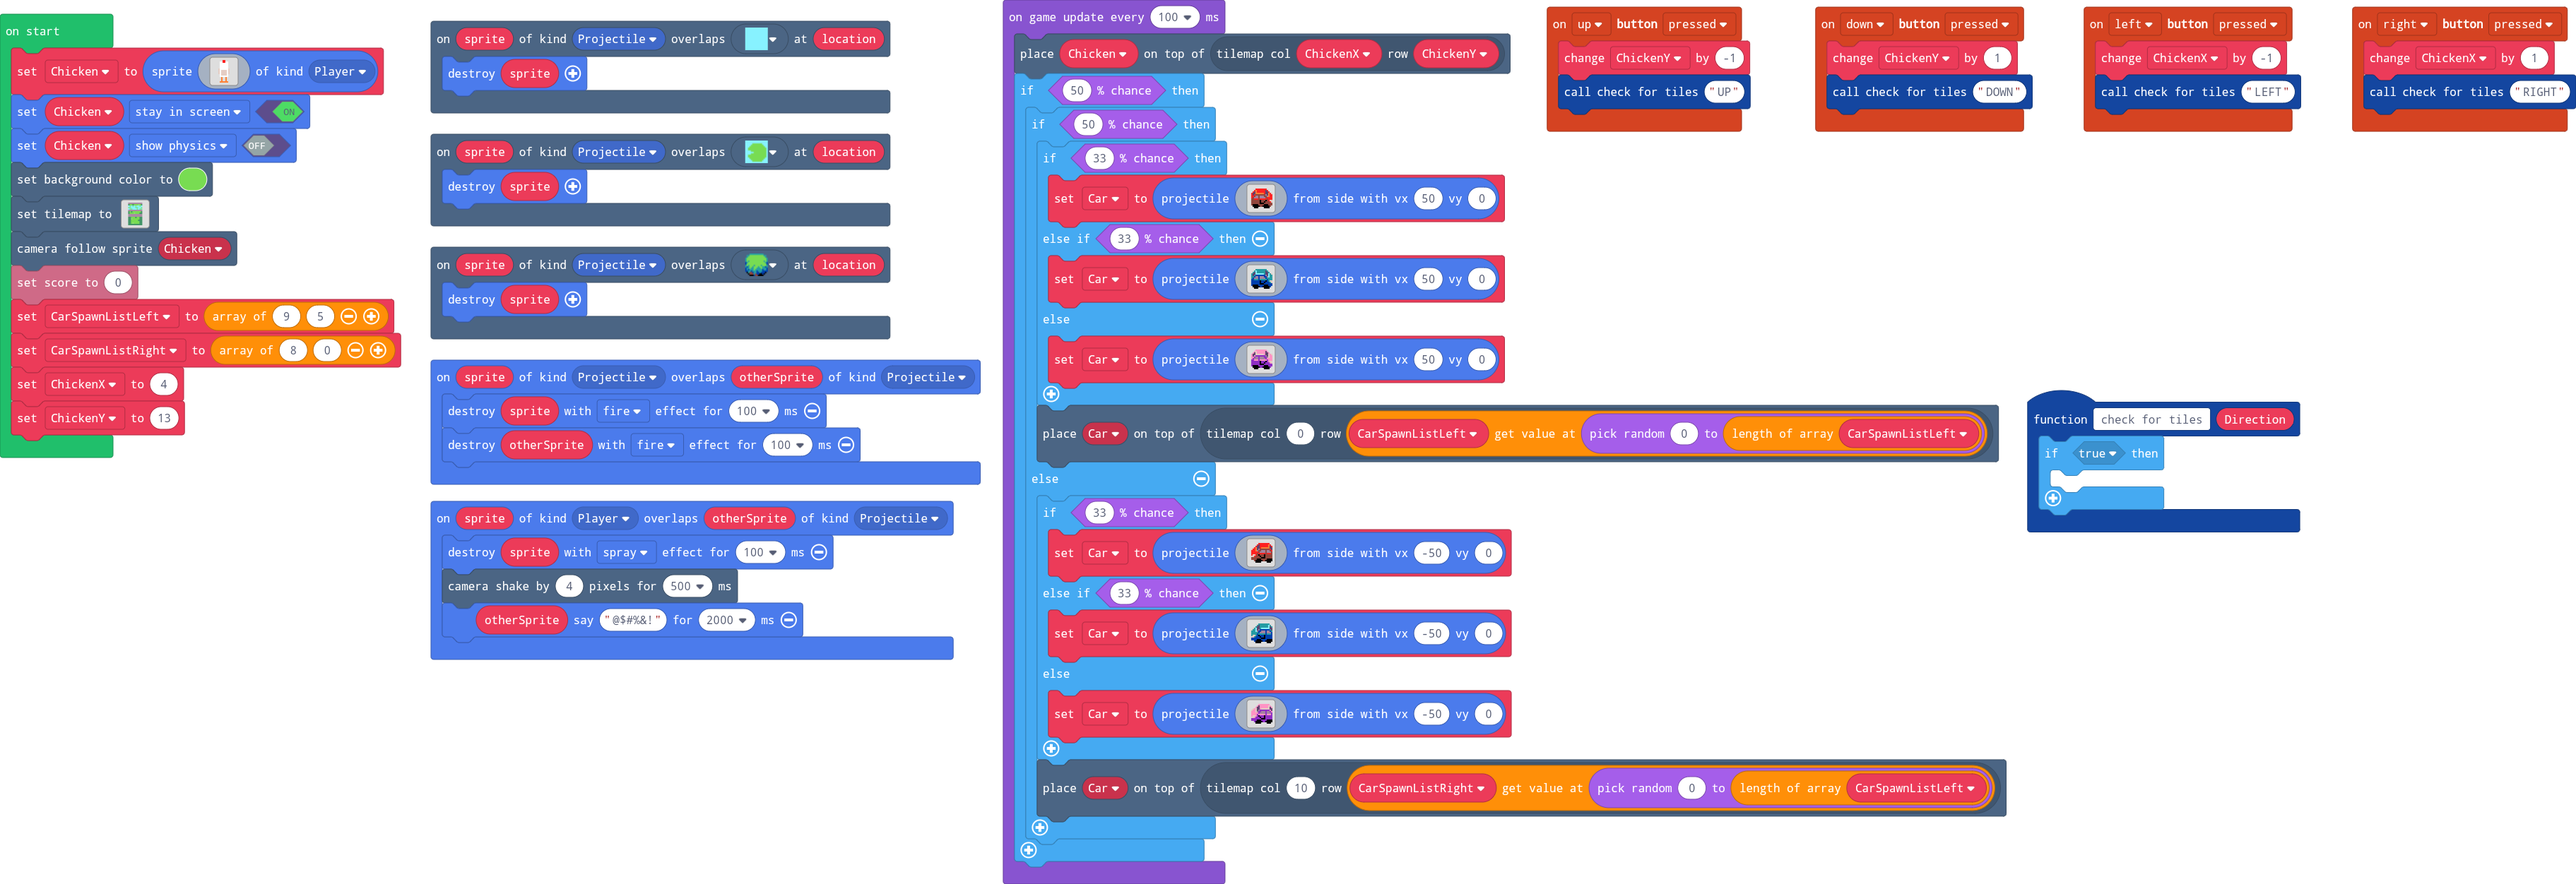
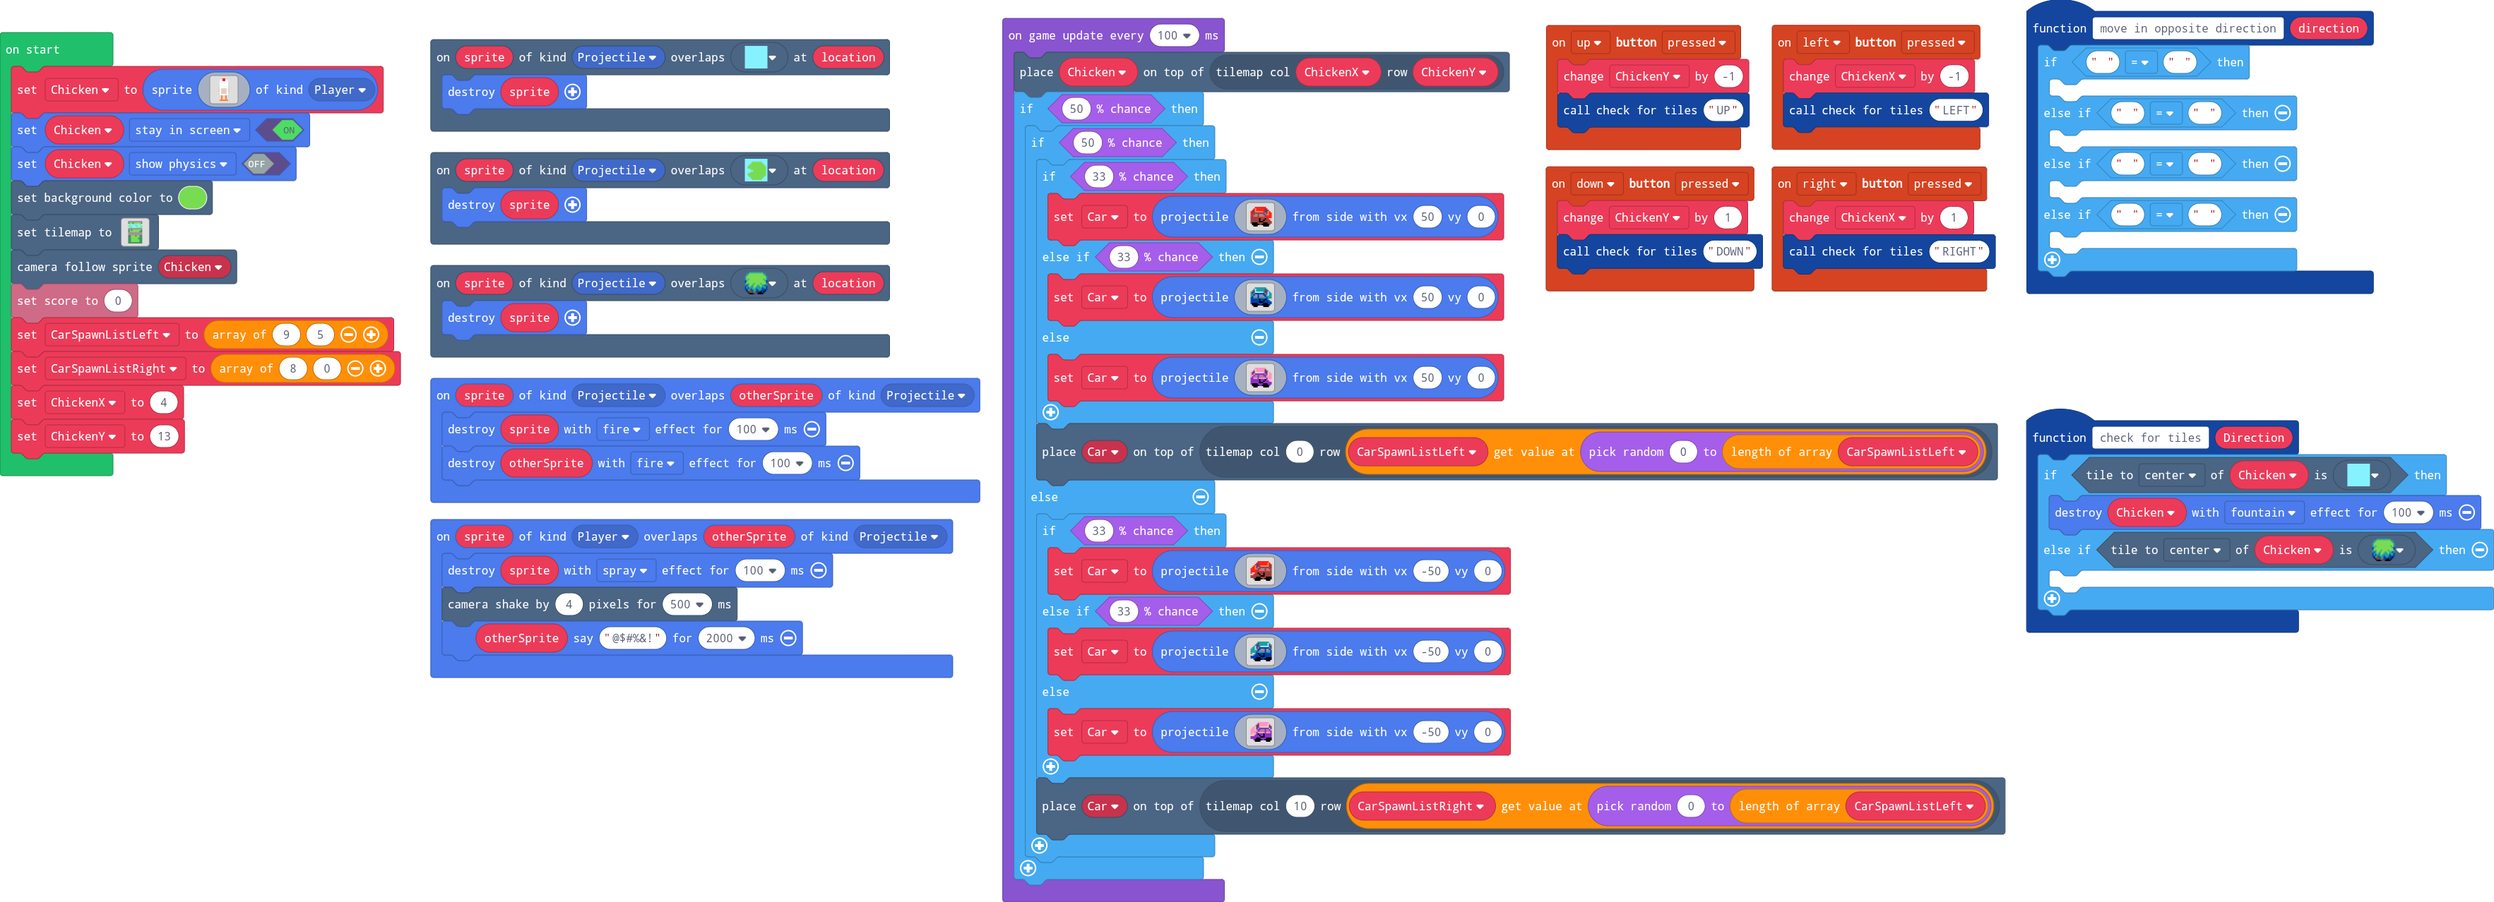
Update main.blocks, main.ts

diff --git a/main.ts b/main.ts
@@ -82,8 +82,14 @@ namespace myTiles {
 9 9 9 9 9 9 9 9 9 9 9 9 9 9 9 9 
 `
 }
-function check_for_tiles (Direction: string) {
-    if (true) {
+function move_in_opposite_direction (direction: string) {
+    if ("" == "") {
+    	
+    } else if ("" == "") {
+    	
+    } else if ("" == "") {
+    	
+    } else if ("" == "") {
     	
     }
 }
@@ -107,6 +113,13 @@ sprites.onOverlap(SpriteKind.Projectile, SpriteKind.Projectile, function (sprite
     sprite.destroy(effects.fire, 100)
     otherSprite.destroy(effects.fire, 100)
 })
+function check_for_tiles (Direction: string) {
+    if (Chicken.tileKindAt(TileDirection.Center, myTiles.tile2)) {
+        Chicken.destroy(effects.fountain, 100)
+    } else if (Chicken.tileKindAt(TileDirection.Center, sprites.builtin.forestTiles0)) {
+    	
+    }
+}
 controller.right.onEvent(ControllerButtonEvent.Pressed, function () {
     ChickenX += 1
     check_for_tiles("RIGHT")
@@ -122,7 +135,8 @@ scene.onOverlapTile(SpriteKind.Projectile, myTiles.tile2, function (sprite, loca
     sprite.destroy()
 })
 let Car: Sprite = null
-let Chicken = sprites.create(img`
+let Chicken: Sprite = null
+Chicken = sprites.create(img`
 . . . . . . . 2 2 . . . . . . . 
 . . . . . 1 1 2 2 1 1 . . . . . 
 . . . . . 1 1 1 1 1 1 . . . . . 
